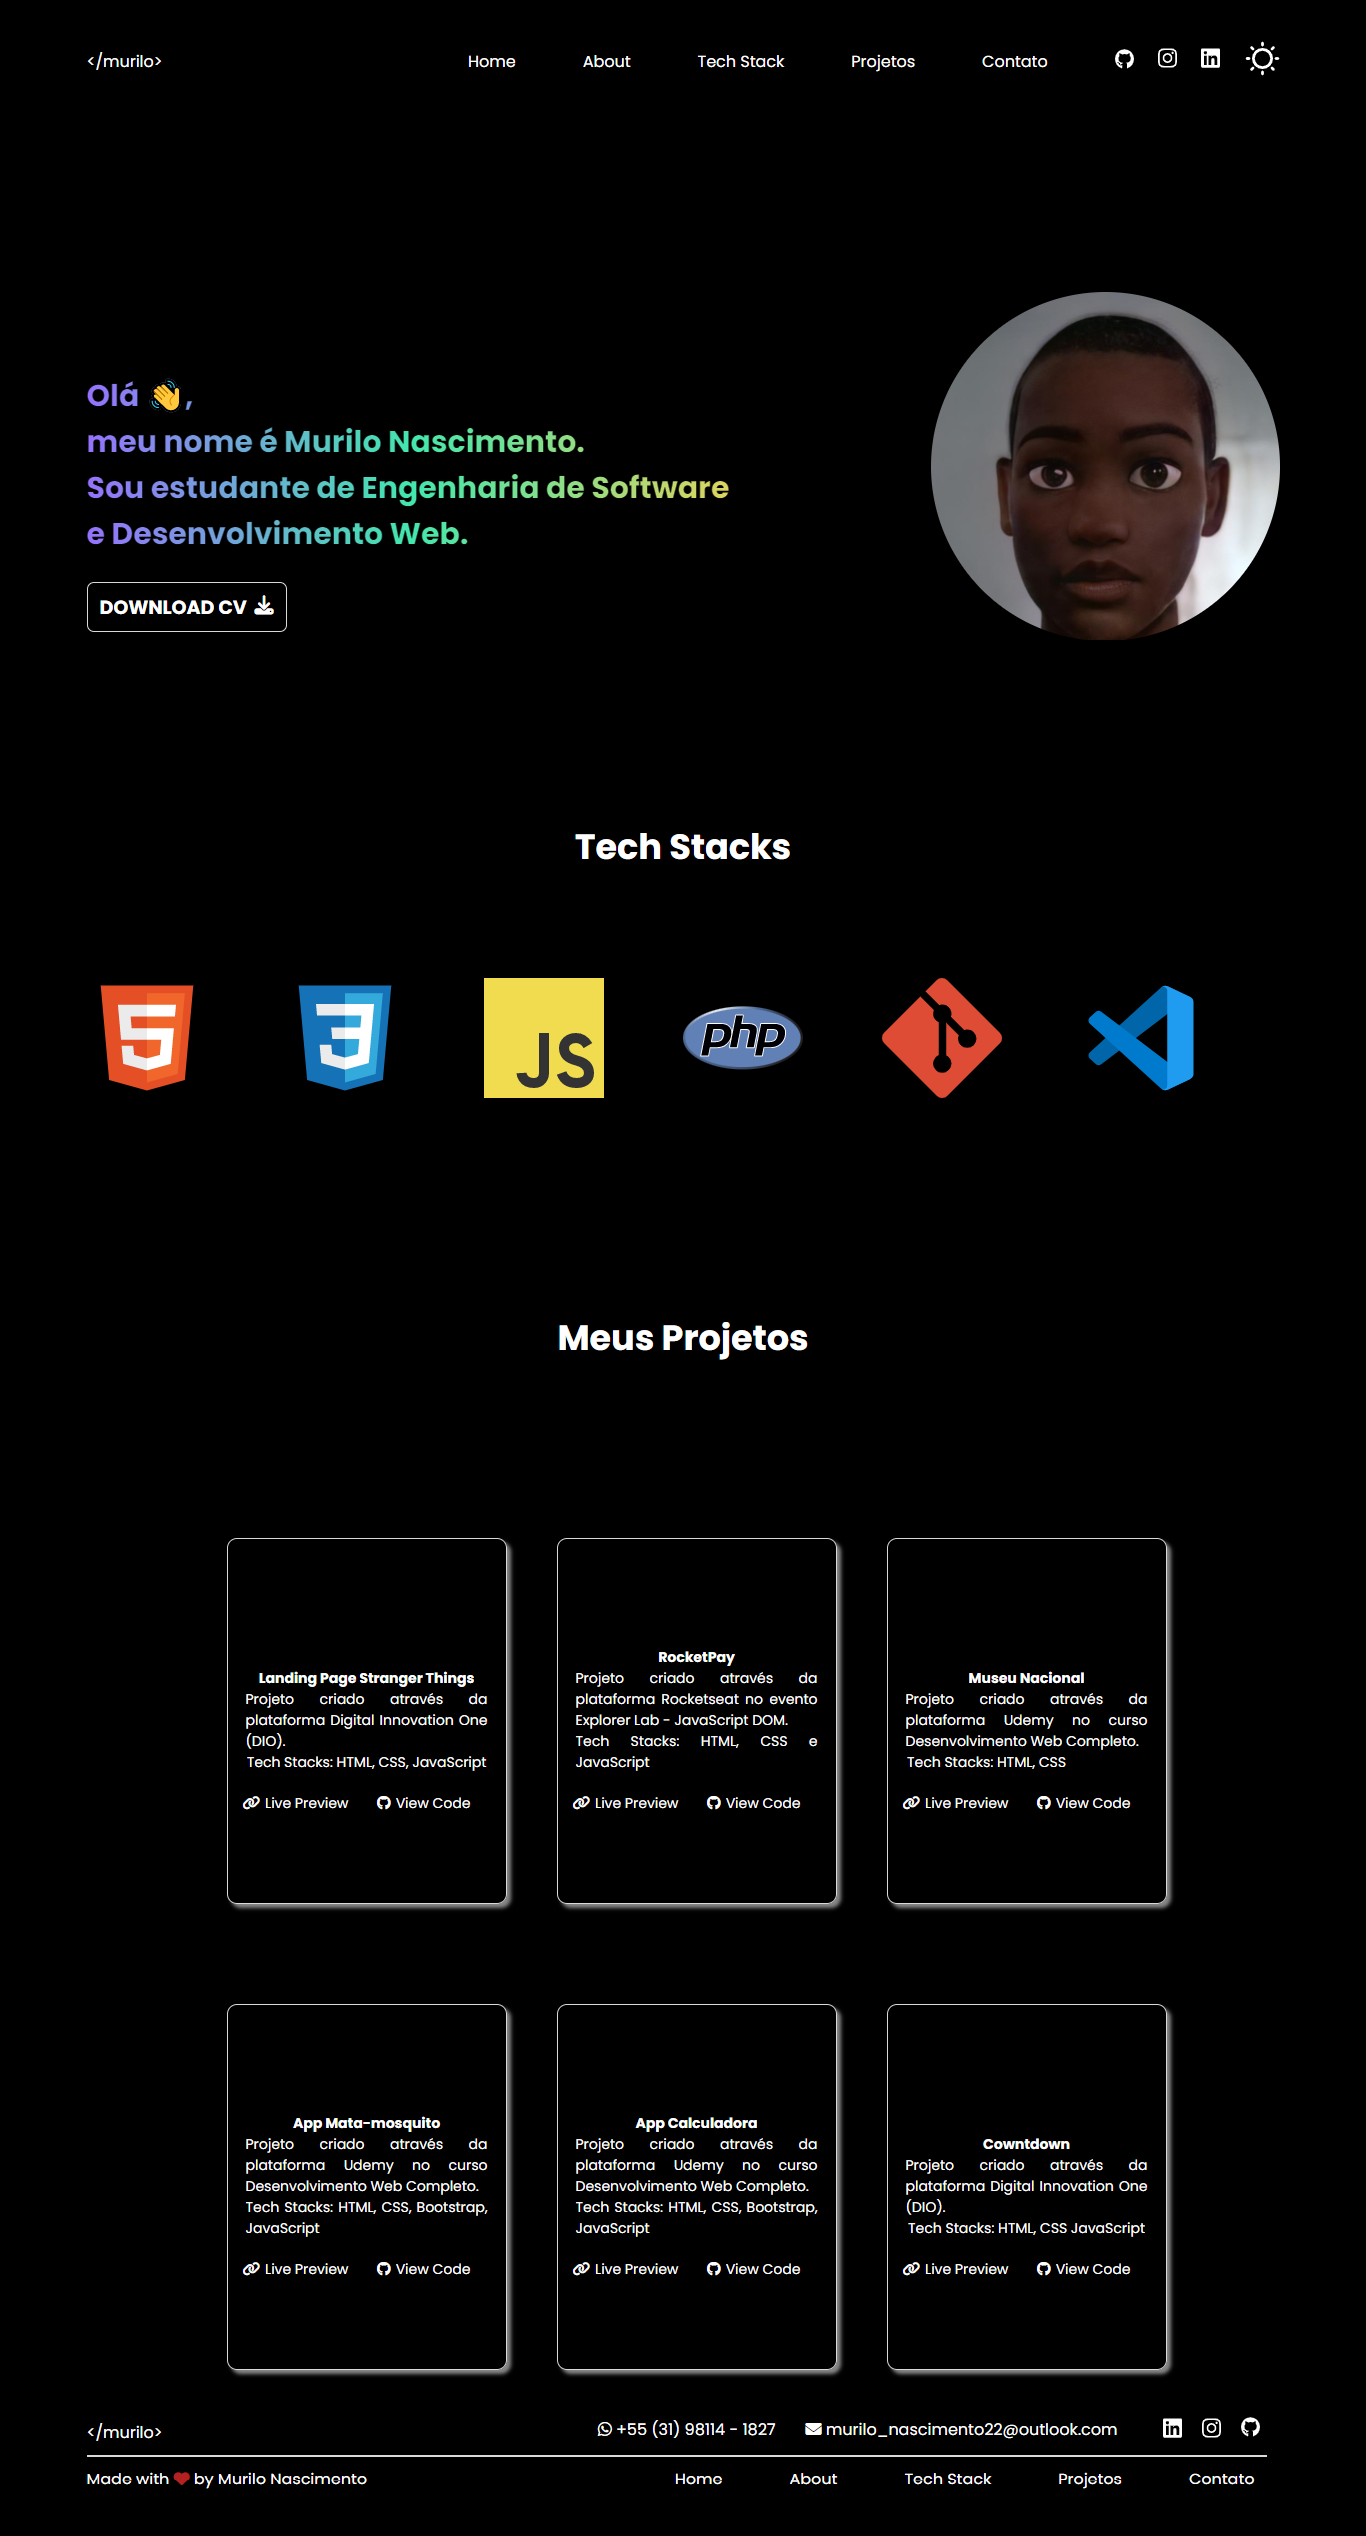
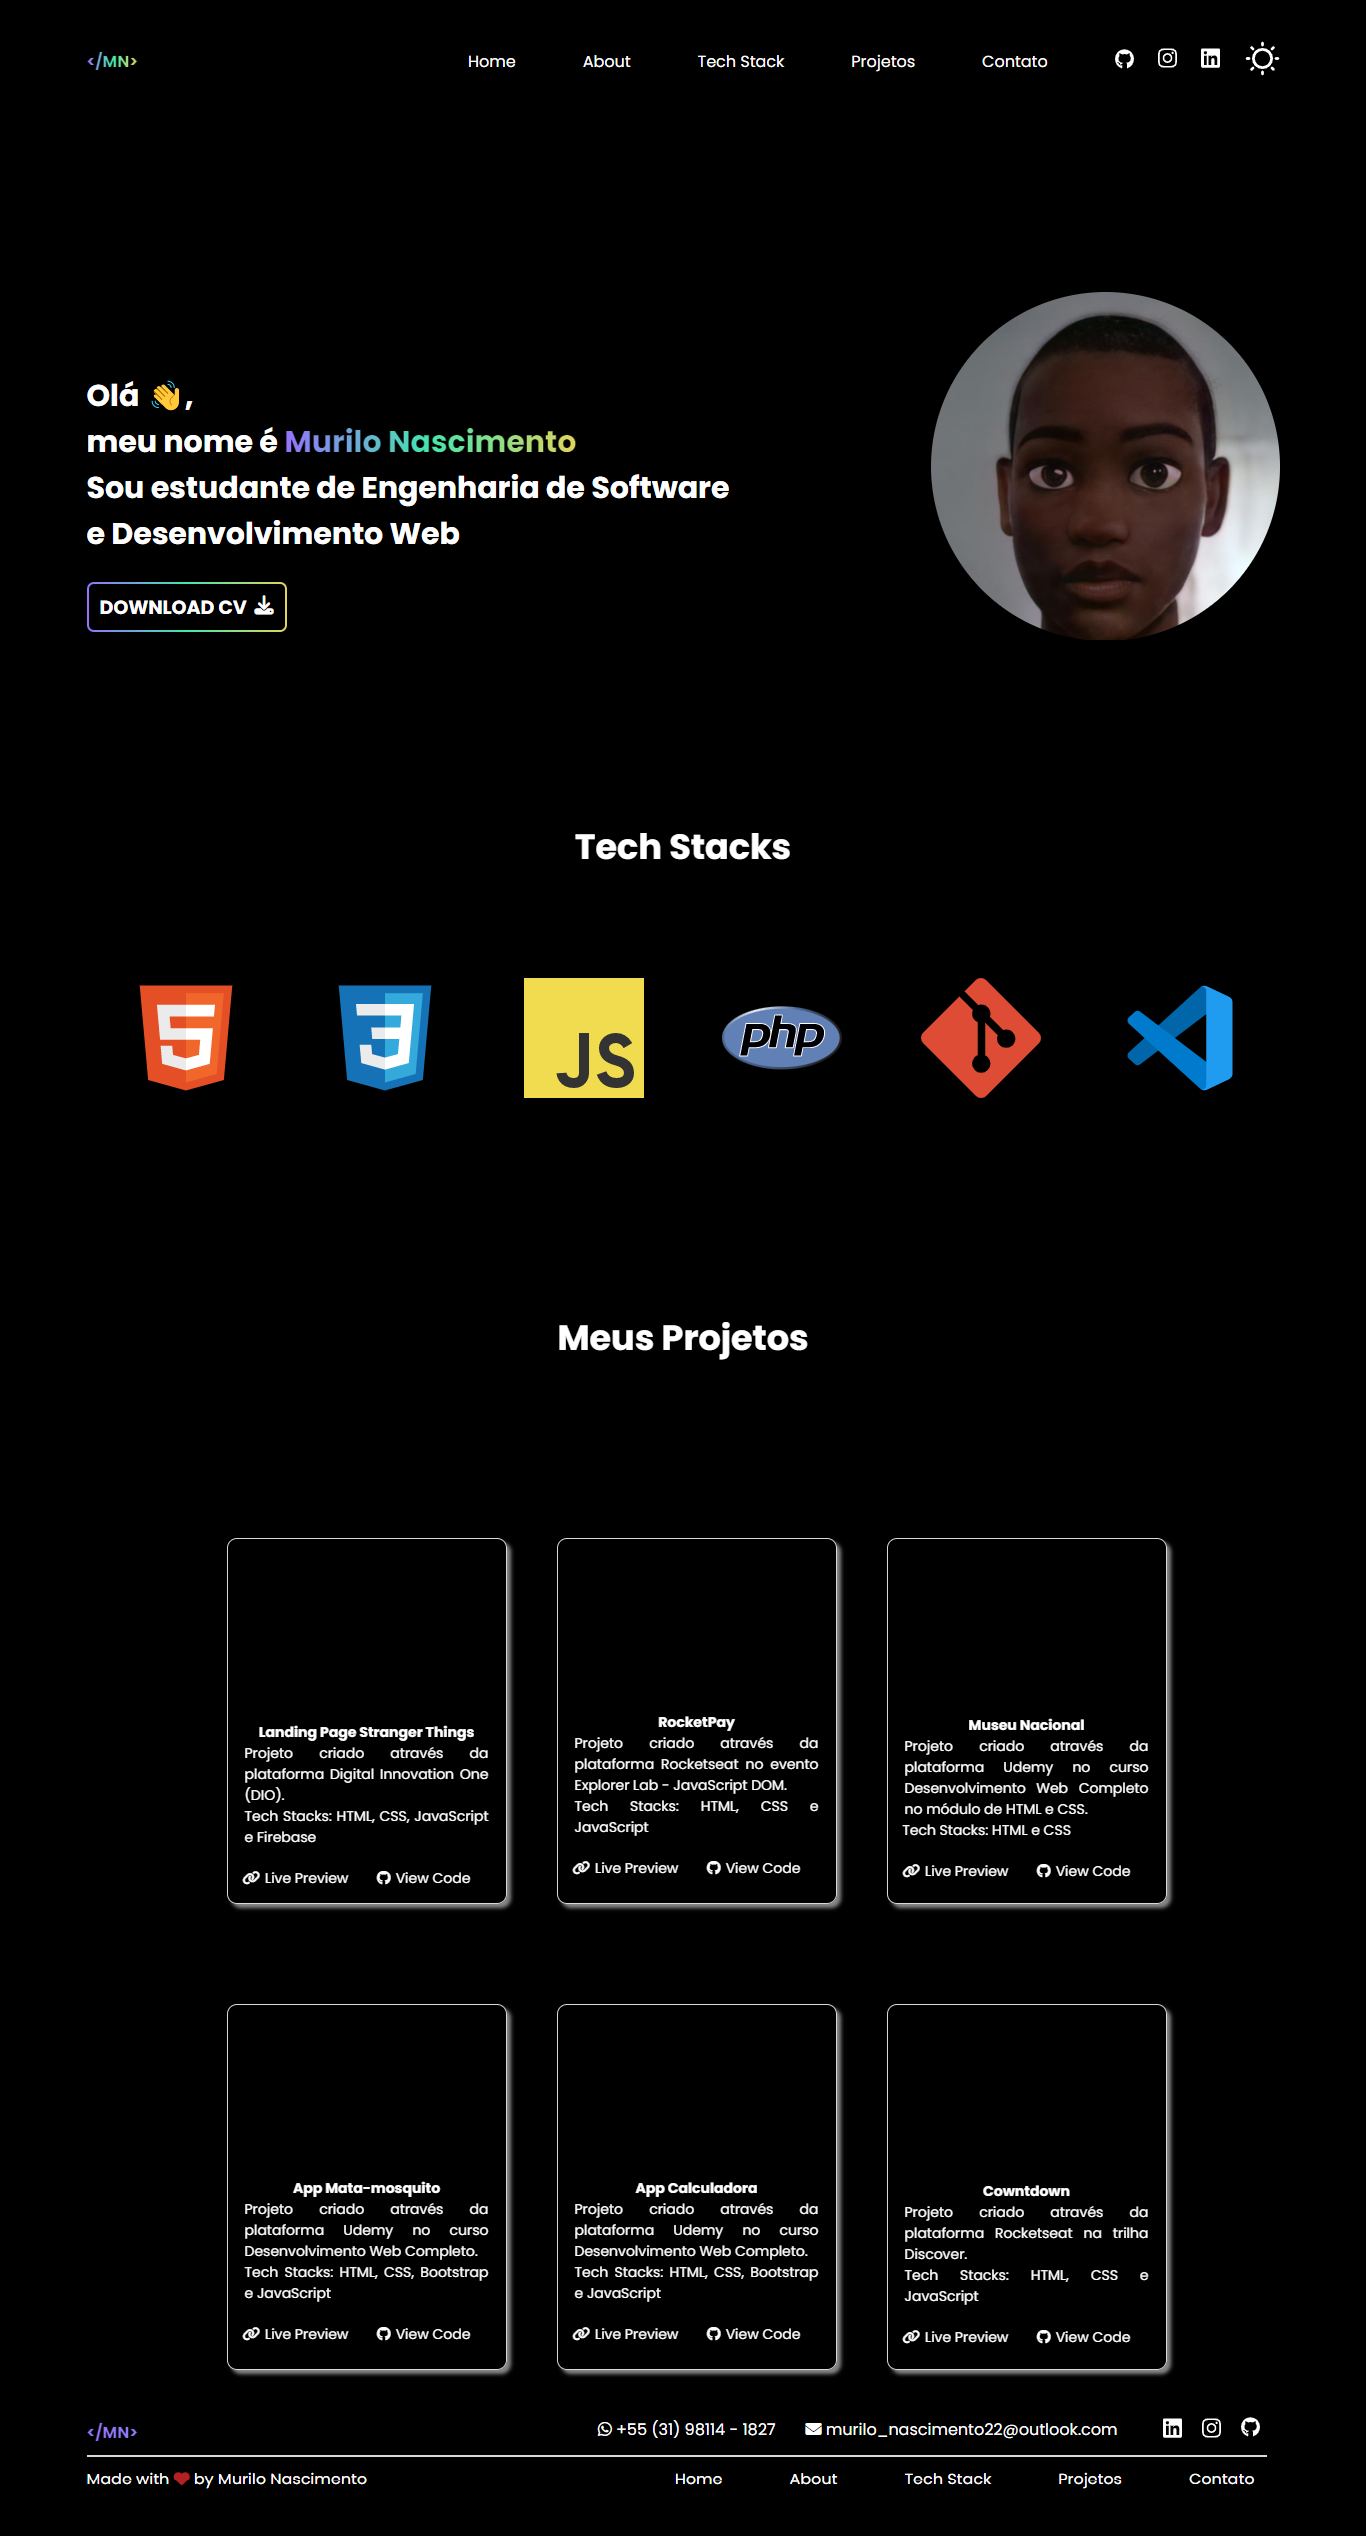
Inclusão de animações e funcionalidades ao projeto

diff --git a/index.html b/index.html
@@ -65,33 +65,33 @@
             <img src="assets/img/foto-perfil.jpg" alt="Foto de Perfil">
         </section>
         <div style="clear: both;"></div>
-        <section id="stacks">
+        <section id="stacks" data-anime="left">
             <h2>Tech Stacks</h2><br>
             <div>
                 <img src="assets/img/html5.svg" alt="HTML5" width="120px" height="120px" id="html">
                 <dialog id="modalhtml">
-                    <p>Linguagem de Marcação de Hipertexto (em inglês: HyperText Markup Language) é a linguagem usado para descrever e definir o conteúdo de uma página Web.</p>
+                    <p>HTML (Linguagem de Marcação de HiperTexto) é o bloco de construção mais básico da web. Define o significado e a estrutura do conteúdo da web. Outras tecnologias além do HTML geralmente são usadas para descrever a aparência/apresentação (CSS) ou a funcionalidade/comportamento (JavaScript) de uma página da web."Hipertexto" refere-se aos links que conectam páginas da Web entre si, seja dentro de um único site ou entre sites. Links são um aspecto fundamental da web.</p>
                     <button onclick="closeModal()">
                         Fechar
                     </button>
                 </dialog>
                 <img src="assets/img/css3.svg" alt="CSS3" width="120px" height="120px" id="css">
                 <dialog id="modalcss">
-                    <p>As Folhas de Estilo em Cascata (em inglês: Cascading Style Sheets) são usadas para descrever a aparência do conteúdo Web.</p>
+                    <p>CSS (Cascading Style Sheets ou Folhas de Estilo em Cascata) é uma linguagem de estilo (en-US) usada para descrever a apresentação de um documento escrito em HTML ou em XML (incluindo várias linguagens em XML como SVG, MathML ou XHTML). O CSS descreve como elementos são mostrados na tela, no papel, na fala ou em outras mídias. CSS é uma das principais linguagens da open web e é padronizada em navegadores web de acordo com as especificação da W3C.</p>
                     <button onclick="closeModal()">
                         Fechar
                     </button>
                 </dialog>
                 <img src="assets/img/javascript.svg" alt="JAVASCRIPT" width="120px" height="120px" id="js">
                 <dialog id="modaljs">
-                    <p>JavaScript é uma linguagem de programação utilizada para adicionar interatividade ao website.</p>
+                    <p>JavaScript® (às vezes abreviado para JS) é uma linguagem leve, interpretada e baseada em objetos com funções de primeira classe, mais conhecida como a linguagem de script para páginas Web, mas usada também em vários outros ambientes sem browser, tais como node.js, Apache CouchDB e Adobe Acrobat. O JavaScript é uma linguagem baseada em protótipos, multi-paradigma e dinâmica, suportando estilos de orientação a objetos, imperativos e declarativos (como por exemplo a programação funcional).</p>
                     <button onclick="closeModal()">
                         Fechar
                     </button>
                 </dialog>
                 <img src="assets/img/php.svg" alt="PHP" width="120px" height="120px" id="php">
                 <dialog id="modalphp">
-                    <p>O PHP é uma linguagem de programação voltada originalmente para desenvolvimento de sites e aplicações web. Por ser de código aberto e de fácil aprendizado, é uma das mais populares do mundo.O PHP foi criado em 1995 pelo programador canadense Rasmus Lerdorf. A sigla é um acrônimo para PHP: Hypertext Preprocessor. A linguagem tornou-se popular por ter uma sintaxe mais simples, e por mesclar o código executado no lado do servidor com HTML, facilitando a criação de páginas com conteúdo dinâmico.</p>
+                    <p>O PHP é uma linguagem de programação voltada originalmente para desenvolvimento de sites e aplicações web. Por ser de código aberto e de fácil aprendizado, é uma das mais populares do mundo. O PHP foi criado em 1995 pelo programador canadense Rasmus Lerdorf. A sigla é um acrônimo para PHP: Hypertext Preprocessor. A linguagem tornou-se popular por ter uma sintaxe mais simples, e por mesclar o código executado no lado do servidor com HTML, facilitando a criação de páginas com conteúdo dinâmico.</p>
                     <button onclick="closeModal()">
                         Fechar
                     </button>
@@ -112,23 +112,24 @@
                 </dialog>
             </div>
         </section>
-        <section id="projects">
+        <section id="projects" data-anime="left">
             <h2>Meus Projetos</h2>
             <div id="box-projects">
                 <div id="box1">
-
-                    <h4>Museu Nacional</h4>
-                    <p>Projeto criado através da plataforma Udemy no curso Desenvolvimento Web Completo.</p>
-                    <p style="margin-left: -80px;">Tech Stacks: HTML, CSS</p>
+                    <div>
+                        <h4>Museu Nacional</h4>
+                    <p>Projeto criado através da plataforma Udemy no curso Desenvolvimento Web Completo no módulo de HTML e CSS.</p>
+                    <p style="margin-left: -80px;">Tech Stacks: HTML e CSS</p>
                     <p style="margin-left: -20px; margin-top: 20px; margin-bottom: -40px;"><a
                             href="https://musenac.netlify.app/" target="_blank" style="margin-right: 25px;"><i
                                 class="fa-solid fa-link" style="margin-right: 5px;"></i>Live Preview</a> <a
                             href="https://github.com/murilonicemento/museu-nacional" target="_blank"><i
                                 class="fa-brands fa-github" style="margin-right: 5px;"></i>View Code</a></p>
+                    </div>
                 </div>
                 <div id="box2">
-
-                    <h4>RocketPay</h4>
+                    <div>
+                        <h4>RocketPay</h4>
                     <p>Projeto criado através da plataforma Rocketseat no evento Explorer Lab - JavaScript DOM.</p>
                     <p>Tech Stacks: HTML, CSS e JavaScript</p>
                     <p style="margin-left: -20px; margin-top: 20px; margin-bottom: -20px;"><a
@@ -136,52 +137,57 @@
                                 class="fa-solid fa-link" style="margin-right: 5px;"></i>Live Preview</a> <a
                             href="https://github.com/murilonicemento/rocketpay" target="_blank"><i
                                 class="fa-brands fa-github" style="margin-right: 5px;"></i>View Code</a></p>
+                    </div>
                 </div>
                 <div id="box3">
-
-                    <h4>Landing Page Stranger Things</h4>
+                    <div>
+                        <h4>Landing Page Stranger Things</h4>
                     <p>Projeto criado através da plataforma Digital Innovation One (DIO).</p>
-                    <p>Tech Stacks: HTML, CSS, JavaScript</p>
+                    <p>Tech Stacks: HTML, CSS, JavaScript e Firebase</p>
                     <p style="margin-left: -20px; margin-top: 20px; margin-bottom: -40px;"><a
                             href="https://musenac.netlify.app/" target="_blank" style="margin-right: 25px;"><i
                                 class="fa-solid fa-link" style="margin-right: 5px;"></i>Live Preview</a> <a
                             href="https://github.com/murilonicemento/museu-nacional" target="_blank"><i
                                 class="fa-brands fa-github" style="margin-right: 5px;"></i>View Code</a></p>
+                    </div>
                 </div>
                 <br>
                 <div id="box4">
-
-                    <h4>Cowntdown</h4>
-                    <p>Projeto criado através da plataforma Digital Innovation One (DIO).</p>
-                    <p>Tech Stacks: HTML, CSS JavaScript</p>
+                    <div>
+                        <h4>Cowntdown</h4>
+                    <p>Projeto criado através da plataforma Rocketseat na trilha Discover.</p>
+                    <p>Tech Stacks: HTML, CSS e JavaScript</p>
                     <p style="margin-left: -20px; margin-top: 20px; margin-bottom: -40px;"><a
                             href="https://cowdow.netlify.app/" target="_blank" style="margin-right: 25px;"><i
                                 class="fa-solid fa-link" style="margin-right: 5px;"></i>Live Preview</a> <a
                             href="https://github.com/murilonicemento/countdown" target="_blank"><i
                                 class="fa-brands fa-github" style="margin-right: 5px;"></i>View Code</a></p>
+                    </div>
                 </div>
                 <div id="box5">
-
-                    <h4>App Calculadora</h4>
+                    <div>
+                        <h4>App Calculadora</h4>
                     <p>Projeto criado através da plataforma Udemy no curso Desenvolvimento Web Completo.</p>
-                    <p>Tech Stacks: HTML, CSS, Bootstrap, JavaScript</p>
+                    <p>Tech Stacks: HTML, CSS, Bootstrap e JavaScript</p>
                     <p style="margin-left: -20px; margin-top: 20px; margin-bottom: -20px;"><a
                             href="https://appcal.netlify.app/" target="_blank" style="margin-right: 25px;"><i
                                 class="fa-solid fa-link" style="margin-right: 5px;"></i>Live Preview</a> <a
                             href="https://github.com/murilonicemento/app-calculadora" target="_blank"><i
                                 class="fa-brands fa-github" style="margin-right: 5px;"></i>View Code</a></p>
+                    </div>
                 </div>
                 <div id="box6">
-
-                    <h4>App Mata-mosquito</h4>
+                    <div>
+                        <h4>App Mata-mosquito</h4>
                     <p>Projeto criado através da plataforma Udemy no curso Desenvolvimento Web Completo.
                     <p>
-                    <p>Tech Stacks: HTML, CSS, Bootstrap, JavaScript</p>
+                    <p>Tech Stacks: HTML, CSS, Bootstrap e JavaScript</p>
                     <p style="margin-left: -20px; margin-top: 20px; margin-bottom: -20px;"><a
                             href="https://app-matmosq.netlify.app/" target="_blank" style="margin-right: 25px;"><i
                                 class="fa-solid fa-link" style="margin-right: 5px;"></i>Live Preview</a> <a
                             href="https://github.com/murilonicemento/app-mata-mosquito" target="_blank"><i
                                 class="fa-brands fa-github" style="margin-right: 5px;"></i>View Code</a></p>
+                    </div>
                 </div>
             </div>
 

diff --git a/assets/css/style.css b/assets/css/style.css
@@ -206,7 +206,7 @@ header button img {
 }
 
 #stacks div img {
-    margin-right: auto;
+    margin: auto;
 }
 #stacks button{
     width: 100px;
@@ -267,6 +267,11 @@ header button img {
 #box1 {
     margin-right: 130px;
 }
+#box1 div{
+    height: 200px;
+    margin-bottom: -115px;
+    border: none;
+}
 
 #box1 img {
     margin-top: -110px;
@@ -279,6 +284,11 @@ header button img {
     padding-right: 18px;
     padding-left: 18px;
 }
+#box2 div{
+    height: 200px;
+    margin-bottom: -130px;
+    border: none;
+}
 
 #box2 img {
     margin-top: -110px;
@@ -290,6 +300,11 @@ header button img {
     text-align: justify;
     padding-right: 18px;
     padding-left: 18px;
+}
+#box3 div{
+    height: 200px;
+    margin-bottom: -130px;
+    border: none;
 }
 
 #box3 img {
@@ -316,7 +331,11 @@ header button img {
 #box4 {
     margin-right: 130px;
 }
-
+#box4 div{
+    height: 200px;
+    margin-bottom: -115px;
+    border: none;
+}
 #box4 img {
     margin-top: -110px;
     border-radius: 10px;
@@ -334,13 +353,21 @@ header button img {
     border-radius: 10px;
     border: 1px solid salmon;
 }
-
+#box5 div{
+    height: 200px;
+    margin-bottom: -130px;
+    border: none;
+}
 #box5 p {
     text-align: justify;
     padding-right: 18px;
     padding-left: 18px;
 }
-
+#box6 div{
+    height: 200px;
+    margin-bottom: -130px;
+    border: none;
+}
 #box6 img {
     margin-top: -110px;
     border-radius: 10px;
@@ -388,7 +415,7 @@ footer>p {
 
 #divider {
     width: 1180px;
-    height: 1px;
+    height: 0px;
     margin-top: 10px;
     margin-bottom: 10px;
     border: 1px solid var(--divider-color);
@@ -402,4 +429,17 @@ footer>p {
 
 #end-nav li {
     margin-right: 67px;
+}
+
+/*ANIMAÇÃO*/
+[data-anime]{
+    opacity: 0;
+    transition: .3s;
+}
+/* [data-anime="left"]{
+    transform: translate3d(-50px, 0, 0);
+} */
+[data-anime].animate{
+    opacity: 1;
+    transform: translate3d(0px, 0px, 0px);
 }

diff --git a/assets/js/script.js b/assets/js/script.js
@@ -60,7 +60,6 @@ vscode.onclick = () => {
     modalVscode.showModal()
 }
 
-
 function closeModal() {
     modalHtml.close();
     modalCss.close();
@@ -68,4 +67,25 @@ function closeModal() {
     modalPhp.close();
     modalGit.close();
     modalVscode.close();
+}
+
+// ANIMAÇÃO SCROLL
+const target = document.querySelectorAll("[data-anime]");
+const animationClass = "animate";
+
+function animationScroll(){
+    const windowTop = window.pageYOffset + ((window.innerHeight * 3 / 4));
+    target.forEach((element) => {
+        if((windowTop) > element.offsetTop){
+            element.classList.add(animationClass);
+        }else {
+            element.classList.remove(animationClass);
+        }
+    });
+}
+animationScroll();
+if(target.length){
+    window.addEventListener("scroll", () => {
+        animationScroll();
+    });
 }

diff --git a/README.md b/README.md
@@ -2,7 +2,7 @@
 Developer Portfolio
 
 ## Deploy da aplicação
-https://portmur.netlify.app/
+https://my-portfolio-chi-nine.vercel.app/
 
 ## Tecnologias utilizadas
 + HTML5
